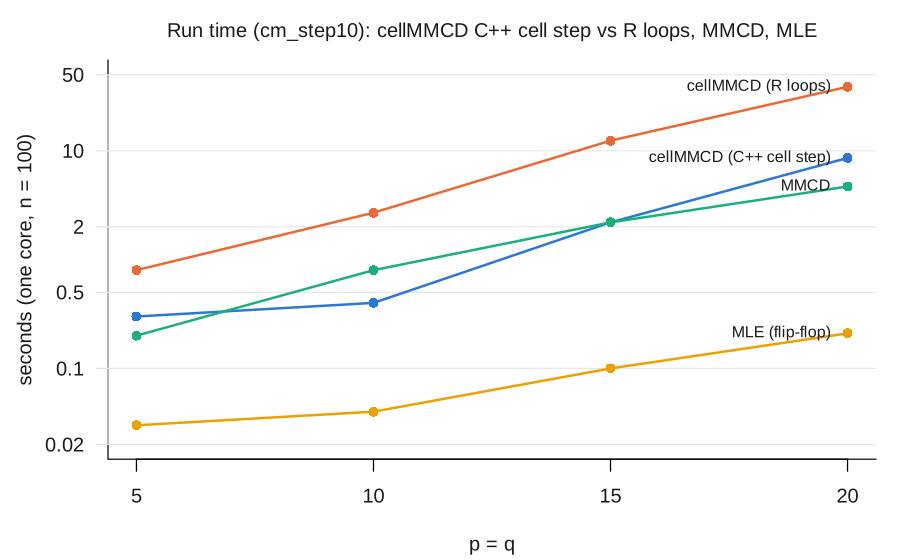
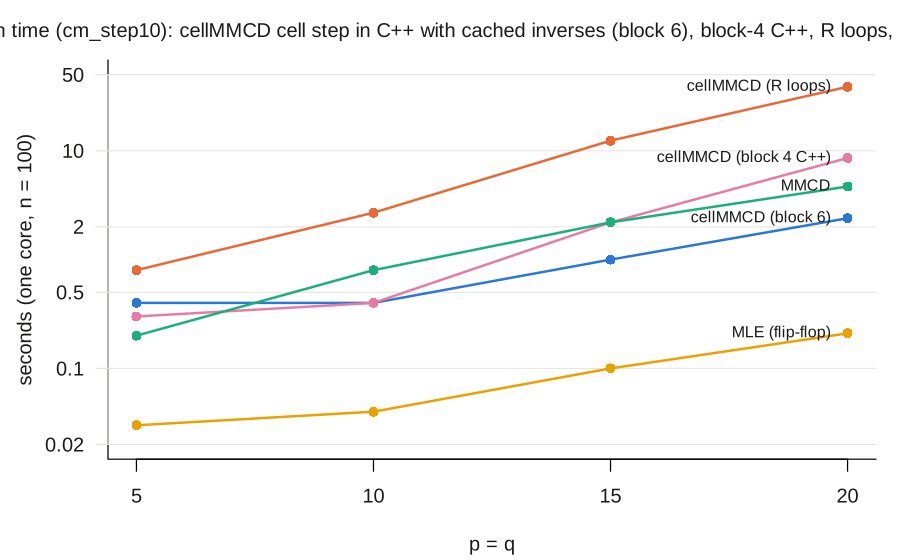
Block 6 end: cached-inverse cell step, timing figure, baton, progress summary, ledger
Claude-Session: https://claude.ai/code/session_01Fi3wVfbEYSFfctE82FNt4U

diff --git a/src/cm_wstep.cpp b/src/cm_wstep.cpp
@@ -27,7 +27,7 @@ static double delta_cell(const double* Tf, const arma::mat& Or, const arma::mat&
 }
 
 // [[Rcpp::export]]
-LogicalVector cm_wstep_cpp(NumericVector Tf, NumericMatrix Or_, NumericMatrix Oc_, LogicalVector W, LogicalVector Wfix,
+LogicalVector cm_wstep_cpp0(NumericVector Tf, NumericMatrix Or_, NumericMatrix Oc_, LogicalVector W, LogicalVector Wfix,
                            NumericMatrix lambda, int h, LogicalVector v, bool shadow) {
   int p = Or_.nrow(), q = Oc_.nrow(), pq = p * q, n = v.size();
   arma::mat Or(Or_.begin(), p, p, false), Oc(Oc_.begin(), q, q, false);
@@ -61,6 +61,96 @@ LogicalVector cm_wstep_cpp(NumericVector Tf, NumericMatrix Or_, NumericMatrix Oc
       if (!Wfix[c + i * pq]) continue;
       M.clear(); for (int j = 0; j < pq; ++j) if (!Wout[j + i * pq]) M.push_back(j);
       Wout[c + i * pq] = delta_cell(&Tf[i * pq], Or, Oc, M, c, p) - lambda(c % p, c / p) <= 0;
+    }
+  }
+  Wout.attr("dim") = W.attr("dim");
+  return Wout;
+}
+
+// ---- Cached-inverse version (block 6) -------------------------------------------------------------------
+// Per observation i keep M_i (flagged set), inv_i = Omega_{M_i M_i}^{-1} and u_i = inv_i t_{M_i}. The delta of a
+// candidate c not in M_i is then Schur: s2 = 1 / (Omega_cc - a' inv_i a), a = Omega_{M_i c}, g_c = s2 (t_c - a' u_i),
+// O(m^2) instead of O(m^3). Flagging c borders inv_i (O(m^2)); un-flagging c downdates it (O(m^2)). The inverse is
+// recomputed from scratch every REFRESH updates to keep the rounding error bounded.
+struct Cache {
+  std::vector<int> M; arma::mat inv; arma::vec u; int upd = 0;
+  void rebuild(const double* Tf, const arma::mat& Or, const arma::mat& Oc, int p) {
+    int m = M.size(); inv.set_size(m, m); u.set_size(m); upd = 0;
+    if (m == 0) return;
+    arma::mat A(m, m); arma::vec t(m);
+    for (int a = 0; a < m; ++a) { int ka = M[a] % p, la = M[a] / p; t(a) = Tf[M[a]];
+      for (int b = 0; b < m; ++b) A(a, b) = Or(ka, M[b] % p) * Oc(la, M[b] / p); }
+    inv = arma::inv_sympd(A); u = inv * t;
+  }
+  // delta for candidate c (not in M); fills a, w = inv a, s2 for a possible add
+  double delta(const double* Tf, const arma::mat& Or, const arma::mat& Oc, int c, int p, arma::vec& a, arma::vec& w, double& s2) const {
+    int m = M.size(), k = c % p, l = c / p; a.set_size(m);
+    for (int b = 0; b < m; ++b) a(b) = Or(k, M[b] % p) * Oc(l, M[b] / p);
+    double tc = Tf[c], au = 0.0, schur = Or(k, k) * Oc(l, l);
+    if (m) { w = inv * a; schur -= arma::dot(a, w); au = arma::dot(a, u); }
+    s2 = 1.0 / schur; double gc = s2 * (tc - au);
+    return std::log(2.0 * M_PI * s2) + gc * gc / s2;
+  }
+  void add(const double* Tf, const arma::mat& Or, const arma::mat& Oc, int c, int p, const arma::vec& w, double s2) {
+    int m = M.size(); M.push_back(c);
+    if (++upd > 64) { rebuild(Tf, Or, Oc, p); return; }
+    arma::mat ni(m + 1, m + 1);
+    if (m) { ni.submat(0, 0, m - 1, m - 1) = inv + s2 * w * w.t(); ni.submat(0, m, m - 1, m) = -s2 * w; ni.submat(m, 0, m, m - 1) = -s2 * w.t(); }
+    ni(m, m) = s2; inv = ni;
+    arma::vec t(m + 1); for (int b = 0; b <= m; ++b) t(b) = Tf[M[b]]; u = inv * t;
+  }
+  void remove(const double* Tf, const arma::mat& Or, const arma::mat& Oc, int c, int p) {
+    int m = M.size(), j = -1; for (int b = 0; b < m; ++b) if (M[b] == c) { j = b; break; }
+    if (j < 0) return;
+    M.erase(M.begin() + j);
+    if (++upd > 64 || m == 1) { rebuild(Tf, Or, Oc, p); return; }
+    arma::uvec keep(m - 1); for (int b = 0, r = 0; b < m; ++b) if (b != j) keep(r++) = b;
+    arma::vec col = inv.col(j); double d = inv(j, j);
+    arma::mat ni = inv.submat(keep, keep) - (col(keep) * col(keep).t()) / d; inv = ni;
+    arma::vec t(m - 1); for (int b = 0; b < m - 1; ++b) t(b) = Tf[M[b]]; u = inv * t;
+  }
+};
+
+// [[Rcpp::export]]
+LogicalVector cm_wstep_cpp(NumericVector Tf, NumericMatrix Or_, NumericMatrix Oc_, LogicalVector W, LogicalVector Wfix,
+                           NumericMatrix lambda, int h, LogicalVector v, bool shadow) {
+  int p = Or_.nrow(), q = Oc_.nrow(), pq = p * q, n = v.size();
+  arma::mat Or(Or_.begin(), p, p, false), Oc(Oc_.begin(), q, q, false);
+  LogicalVector Wout = clone(W);
+  std::vector<int> kept; for (int i = 0; i < n; ++i) if (v[i]) kept.push_back(i);
+  int nv = kept.size();
+  std::vector<Cache> cache(n);
+  for (int i = 0; i < n; ++i) { if (!v[i] && !shadow) continue;
+    for (int j = 0; j < pq; ++j) if (!Wout[j + i * pq]) cache[i].M.push_back(j);
+    cache[i].rebuild(&Tf[i * pq], Or, Oc, p); }
+  std::vector<double> dec; std::vector<int> free_; std::vector<arma::vec> ws; std::vector<double> s2s; arma::vec a, w; double s2;
+  for (int c = 0; c < pq; ++c) {
+    int k = c % p, l = c / p;
+    free_.clear();
+    for (size_t a_ = 0; a_ < kept.size(); ++a_) { int i = kept[a_];
+      if (Wfix[c + i * pq]) { if (!Wout[c + i * pq]) cache[i].remove(&Tf[i * pq], Or, Oc, c, p); Wout[c + i * pq] = true; free_.push_back(i); } }
+    int budget = nv - h - (nv - (int) free_.size());
+    if (budget <= 0) continue;
+    dec.assign(free_.size(), 0.0); ws.resize(free_.size()); s2s.assign(free_.size(), 0.0);
+    for (size_t a_ = 0; a_ < free_.size(); ++a_) { int i = free_[a_];
+      dec[a_] = cache[i].delta(&Tf[i * pq], Or, Oc, c, p, a, ws[a_], s2s[a_]) - lambda(k, l); }
+    std::vector<int> pos; for (size_t a_ = 0; a_ < free_.size(); ++a_) if (dec[a_] > 0) pos.push_back(a_);
+    if ((int) pos.size() > budget) {
+      std::stable_sort(pos.begin(), pos.end(), [&](int x, int y) { return dec[x] > dec[y]; });
+      pos.resize(budget);
+    }
+    for (size_t a_ = 0; a_ < pos.size(); ++a_) { int i = free_[pos[a_]]; Wout[c + i * pq] = false; cache[i].add(&Tf[i * pq], Or, Oc, c, p, ws[pos[a_]], s2s[pos[a_]]); }
+  }
+  if (shadow) for (int i = 0; i < n; ++i) {
+    if (v[i]) continue;
+    Cache& ch = cache[i];
+    for (int j = 0; j < pq; ++j) if (!Wfix[j + i * pq] && Wout[j + i * pq]) { Wout[j + i * pq] = false; ch.M.push_back(j); }
+    ch.rebuild(&Tf[i * pq], Or, Oc, p);
+    for (int c = 0; c < pq; ++c) {
+      if (!Wfix[c + i * pq]) continue;
+      if (!Wout[c + i * pq]) { ch.remove(&Tf[i * pq], Or, Oc, c, p); Wout[c + i * pq] = true; }
+      double d = ch.delta(&Tf[i * pq], Or, Oc, c, p, a, w, s2) - lambda(c % p, c / p);
+      if (d > 0) { Wout[c + i * pq] = false; ch.add(&Tf[i * pq], Or, Oc, c, p, w, s2); }
     }
   }
   Wout.attr("dim") = W.attr("dim");

diff --git a/notes/overnight/STATE.md b/notes/overnight/STATE.md
@@ -1,36 +1,39 @@
 # STATE: baton between overnight blocks
 
-_Last updated: 2026-11-04 by block 5 (session_01Fi3wVdJwhXJChghfnTDkxr). Each block rewrites this file at its end (PROTOCOL §6)._
+_Last updated: 2026-11-04 by block 6 (session_01Fi3wVfbEYSFfctE82FNt4U). Each block rewrites this file at its end (PROTOCOL §6)._
 
-## Current method: cellMMCD, reweighted, with shadow step, count rule (robust rate), joint location (status: implemented, tested 23/23 + core 31/31, all benchmarks rerun with the block-5 default)
-- **Definition** (`notes/cellmmcd/METHOD.md` §2, §4, §4b–4e): trimmed observed-cell likelihood with Kronecker Σ, penalty λ_kl per flagged cell (calibrated), per-position quota h = ⌈αn_v⌉, observation weights v_i with the kept-cell threshold μ_i, majority rule, adaptive count rule (≤ qbinom(.999, pq, ε̄) flagged cells; **block 5: ε̄ is the binomial-corrected mean count of the α_obs fraction of kept matrices with the fewest flags, `cm_eps_robust`**), shadow cell step (first 10 iterations), **block 5: EM step for the location M in the parameter step (`loc = TRUE`)**, then the reweighting step (re-flag at .999, refit with flags fixed, scale factors t_rw, t_obs).
-- **Block-5 changes and why:** (1) robust ε̄: kept casewise outliers inflated the plain rate (0.023 vs 0.013) and raised the count cap by one; structural 20 % now KL 0.28, 82 % trimmed (block 4: 0.32, 60 %); everything else unchanged. (2) Joint location: M error halved in every setting, the median plug-in breaks at 20 % shifted matrices (error 3.0 vs 0.3); KL never worse. (3) Hard quota (`quant_obs = NULL`) carries the MCD consistency factor κ(α_obs, pq): clean KL 0.42 → 0.29, scale ratio 0.87 → 1.01.
-- **New negative results (block 5, all in JOURNAL):** (a) *intrinsic limit*: structural casewise outliers under ≥ 5 % cellwise contamination are trimmed only ~10 % (KL 1.0–1.6; hard quota 0.35–0.42; MMCD 47): after their worst cells are flagged they are indistinguishable from cellwise-contaminated clean matrices by (count, kept cells); the kept-cell excess is −19 vs −29 for clean, far below any threshold. (b) *monotone shadow phase*: any constant trimmed charge ≡ charging flagged cells (block-2 dead end); closed. (c) *breakdown* (`cm_step13_breakdown.log`): cellwise at the per-position quota 25 % for 4-sd cells (KL 0.5 at 20 %, 5 at 25 %, 71 at 30 %), 35–40 % for 10-sd / 1000-sd cells (forced marginal flags), casewise at 25 % (quota); conjectured in general.
-- **Results with the block-5 default (median KL, n = 100):** cellwise 3×4 / 5×5 (`cm_step1.log`): clean 0.084 / 0.195, 5 / 10 / 20 % cells at 6 sd 0.089 / 0.195, 0.092 / 0.183, 0.130 / 0.271 (MMCD ≥ 14 with cells, cellMCD-on-vec 0.26–1.14). Casewise/mixed 5×5 (`cm_step4_mixed.log`): clean 0.19, 5 % cells 0.18, shift 10 / 20 % 0.16 / 0.17, scale 0.19 / 0.22, struct 0.20 / 0.23 (MMCD 0.18 / 0.23), shift + cells 0.22 (MMCD 51), **struct + cells 0.79 (hard quota 0.32, MMCD 48: the weak case)**. Interplay guard (`cm_step9`): 10 % cells at 3 / 4 / 6 sd 0.29 / 0.24 / 0.24, trimmed 0; clean 0.21 with 1 % trimmed (block 4: 0.18, 0; caveat in JOURNAL). Location (`cm_step14`): M error 0.27–0.32 (median plug-in 0.43–3.0).
-- **Figures (block 5, `exp/cm_plots_block5.R`):** `output/cm_fig_breakdown.png`, `cm_fig_timing.png`, `cm_fig_if.png`, `cm_fig_mixed.png` (base R; reads the rds files).
-- **Speed:** unchanged from block 4 (C++ cell step; 0.3 / 0.4 / 2.2 / 8.6 s at p = q = 5 / 10 / 15 / 20, n = 100); `cm_eps_robust` and the M step add negligible time. Operating range n ≥ 3·max(p, q).
+## Current method: cellMMCD, reweighted, shadow step, count rule (robust rate), joint location; fallback: reweighted hard quota (status: implemented, tested 25/25 + core 31/31, benchmarks rerun, paper-form summary in METHOD §0)
+- **Definition** (`notes/cellmmcd/METHOD.md` §0 summary, §2, §4, §4b–4e): trimmed observed-cell likelihood with Kronecker Σ, calibrated penalty λ_kl, per-position quota h = ⌈αn⌉, forced marginal flags (3 MAD), observation weights v (kept-cell threshold μ_i, majority rule, count rule with the robust rate), shadow cell step, EM location step, then the reweighting (re-flag at .999, refit with flags fixed, scale factors t_rw·t_obs). **Unchanged default in block 6.**
+- **Block-6 additions:** (1) `quant_rw_obs` (§4c): the hard quota (`quant_obs = NULL`) now re-decides the observation weights in the reweighting step by the kept-cell distance d_i² ≤ χ²_{|O_i|,.99} plus the raw count rule, no quota (`cm_d2_obs`, Schur form; test 24). Removes the raw hard quota's 12 % scale over-correction and its clean cost (0.275 → 0.200; soft 0.190); within 0.03 KL of the soft default on every casewise and cellwise case; **struct 20 % + 5 % cells 0.35 vs 0.79 (soft)**; recommended fallback. (2) C++ cell step with cached inverses (bordering / downdate of Ω_MM⁻¹, O(m²) per candidate; old routine kept as `cm_wstep_cpp0`, test 25): identical flags, 20×20 fit 8.6 → 2.4 s; faster than MMCD from 10×10.
+- **Theory added (block 6, JOURNAL results 4 and 6; METHOD §7, §7b):** chain-rule IF of the reweighted estimator in the Kronecker model, IF = J⁻¹[v s(z_O) + K·IF_raw(z)], bounded (the marginal cut bounds every kept value; the start has bounded IF), finite limit for gross cells and gross matrices (proven under regularity; K not in closed form). Breakdown: explosion by gross cells impossible below 1/2 contaminated cells per position (proven via the marginal cut; checked: no breakdown at 45 % gross cells per position, `cm_step19_gross.log`); the block-5 "35–40 % for gross cells" was an artefact of random placement; the quota 1 − α governs a *bounded bias* blow-up for moderate cells, not explosion.
+- **Checked numerically (block 6):** the full default is consistent at the Gaussian: n·KL 8.3 / 8.0 / 7.4 at n = 500 / 2000 / 8000 (MLE 8.9 / 7.4 / 5.9; `cm_step15_consistency.log`); raw hard quota unbiased but 2.1–2.8× the MLE, reweighted 0.98–1.41. Sensitivity curves (`cm_step18_sc.log`, `cm_fig_sc.png`, 3×3, n = 500): bounded, flat beyond the cutoff (one cell: 4.95 for x ≥ 3 vs MLE 824 at x = 30; shifted matrix: 5.5 for x ≥ 4 vs 3975), maximum just inside the cutoff.
+- **Closed:** C++ parameter step (5 % of the run time; profile in JOURNAL).
+- **Results with the default (median KL, n = 100), unchanged:** cellwise 3×4 / 5×5 clean 0.084 / 0.195, 5 / 10 / 20 % 6-sd cells 0.089 / 0.195, 0.092 / 0.183, 0.130 / 0.271; casewise 5×5 shift / scale / struct 20 % 0.17 / 0.22 / 0.23 (MMCD 0.21 / 0.27 / 0.23), shift + cells 0.22 (MMCD 51), struct + cells 0.79 (hard rw 0.35, MMCD 48).
+- **Figures:** block 5 `cm_fig_breakdown.png`, `cm_fig_if.png`, `cm_fig_mixed.png`; block 6 `cm_fig_timing.png` (regenerated), `cm_fig_sc.png` (`exp/cm_plots_block6.R`).
 
 ## Code and tests (all passing at commit of this file)
-- `R/cellmmcd.R`: 1 kpair, 2 objective, 3 cell step, 3a `cm_fullcol` (off), 3b `cm_vstep`, **3c `cm_eps_robust` (block 5)**, 4 `cm_pstep(..., loc)` (returns dM), 5 driver `cellmmcd(..., eps_robust = TRUE, loc = TRUE, ...)` (fit carries `eps_bar`, `count_max`, `t_obs`, `loc`), 5b reweighting, 6–7 proxy fixed point and IFs.
-- `src/cm_wstep.cpp` unchanged. `tests/test_cellmmcd.R`: 23 tests (block 4's 20 + robust rate, hard-quota factor, joint location). `tests/test_core.R`: 31/31.
-- Experiments added: `exp/cm_step12_struct.R` (diagnostic), `cm_step13_breakdown.R`, `cm_step14_loc.R`, `cm_plots_block5.R`. Reruns with the final default: `cm_step4_mixed` (new row struct 20 % + 5 % cells at the end of the grid), `cm_step9_interplay`, `cm_step1`, `cm_step13_breakdown`. Earlier runs kept as `*_block4.log`, `*_b5_locmedian.log` (block-5 code with the median plug-in), `cm_step4_mixed_block5_nokappa.log`.
-- `tools/overnight/hb.sh`: block number and session id hard-coded (set to 5: edit for block 6).
+- `R/cellmmcd.R`: driver `cellmmcd(..., quant_rw_obs = NULL)` (NULL = automatic: .99 for the hard quota, off otherwise); `cm_reweight(fit, X, quant_rw, maxit, tol, quant_rw_obs)` with the observation reweighting; `cm_d2_obs`. Fit carries `rw_obs`, `quant_rw_obs`, `t_obs`; `fit$raw$v` / `fit$raw$trimmed` keep the quota, `fit$v` is the reweighted set.
+- `src/cm_wstep.cpp`: `cm_wstep_cpp` (cached inverses, block 6), `cm_wstep_cpp0` (block 4, test only), `cm_reweight_cpp`.
+- `tests/test_cellmmcd.R`: 25 tests (tests 8 and 22 now check the quota on `fit$raw`; 24 reweighted hard quota; 25 cached cell step). `tests/test_core.R`: 31/31.
+- Experiments added: `exp/cm_step15_consistency.R`, `cm_step16_hardrw.R`, `cm_step17_hardrw_cells.R`, `cm_step18_sc.R`, `cm_step19_gross.R`, `cm_plots_block6.R`; `cm_step10_timing.R` rerun (adds the hard rw column; earlier logs `_block4.log`, `_block6_before_cache.log`).
+- `tools/overnight/hb.sh`: block number and session id hard-coded (set to 6: edit for block 7).
 
 ## Prioritized next steps (concrete first actions)
-1. **Consistency check of the final default at large n** (`cm_step6_bias.R` was run with the block-3 default): rerun n = 500 / 2000 / 8000 at 3×4 with `loc = TRUE` and the robust rate; n·KL must stay bounded (block 3: ratio to the MLE 1.0–1.5). First action: `grep -n 'n_grid\|cellmmcd(' exp/cm_step6_bias.R`, add the default, run in the background (minutes).
-2. **Reweighted hard quota** (cheap): after the hard-quota raw fit, re-decide v by the kept-cell test at the raw fit and refit (as the reweighted MCD), removing the 12 % over-correction at 20 % casewise contamination; keep as the fallback for structural outliers. Then METHOD §4c.
-3. **Influence function in the Kronecker model given the flags** (STATE-4 item 7): given (v, W) the reweighted estimator is an observed-cell MLE, so IF = J⁻¹ s(x) with the observed-cell score; combine with the cell rule's IF by the chain rule as in the proxy (§7a). Write the derivation in JOURNAL, check numerically with a contaminated functional at one cell (3×3, as `cm_proxy_T` does in 1-D).
-4. **Breakdown proof sketch** for the per-position quota (cellwise, 1 − α) along the MCD argument; needs the boundedness converse of §4a (still conjectured).
-5. **C++ for `cm_pstep`/`cm_obj_i`** if pq > 20 matters.
-6. METHOD.md to paper form (definition → algorithm → theory → simulation → limits), using the four figures; a timing rerun with the final default at 20×20.
+1. **Implosion / boundedness of F below the n/max(p,q) line (§4a converse)** is the main theoretical gap: the breakdown statement for moderate cells and the existence of the estimator both rest on it. First action: formulate the claim for the *local* minimiser from `kpair` on the feasible set with values in the marginal-cut box B (JOURNAL block 6, result 6): show that along a monotone descent from a start with bounded condition number, det Σ_OO terms keep the smallest eigenvalue away from 0 unless a kept configuration is degenerate; look at `cm_step11_smalln.log` for what the degenerate configurations look like. If a proof is out of reach, write the precise conjecture with the numerical evidence (n ≥ 3 max(p, q)).
+2. **Paper draft from METHOD §0**: `notes/cellmmcd/PAPER.md` with the sections definition → algorithm → theory → simulation → limits, pulling the tables from §9 and the five figures; reorder §4a–4e (currently 4a, 4c, 4d, 4b, 4e). Cheap, owner-facing.
+3. **Choice of default**: soft threshold vs reweighted hard quota. Evidence so far: equal within 0.03 KL everywhere except struct + cells (hard rw far better) and clean 5×5 (soft better by 0.01–0.03). A larger grid (3 seeds × n = 100, 200; 5×5, 8×8) with both would settle it; the decision belongs to the owner, so present both in the paper.
+4. **Casewise breakdown of the reweighted hard quota** at > 25 % casewise contamination (the reweighting could re-admit outliers as the reweighted MCD does): rerun `cm_step13_breakdown.R`'s casewise rows with `quant_obs = NULL`.
+5. **Speed, if pq > 20 matters:** `kpair` (9 %) and the R-level parameter step / objective are what remains; the cell step is no longer the bottleneck.
+6. Timing beyond 20×20 (30×30, 40×40) now that the cell step is O(m²): one background run of `cm_step10_timing.R` with the grid extended.
 
 ## Open questions and pitfalls
-- The count rule's ε̄ is estimated from kept matrices; with casewise contamination at exactly 1 − α_obs the binomial correction over-corrects by one count unit (test 21 documents it).
-- Structural casewise outliers + cellwise contamination: not identifiable in the cellwise paradigm (JOURNAL block 5); say so in the paper and point to the hard quota.
-- The location's forced marginal flags (Wfix) are computed once from the median-centred data; under > 20 % shifted matrices the median centre is off, but the EM location and the trimming recover (cm_step14 shiftmat error 0.32).
-- Inserting a row in the middle of an experiment grid changes the seeds of the later rows (seeds are 4000 + 100·g + r): append new rows at the end.
-- Each block's start-up reading costs ≈ $2–3 of the cap; keep reads to this file, the brief, METHOD §4e/§7–9, the block-5 JOURNAL entries.
-- `pgrep -f` inside a waiting loop matches the loop's own shell; wait on a done marker. Foreground `sleep` is blocked for the agent: wait with a background `until` loop.
+- The observation reweighting of the hard quota uses `fit$count_max` from the raw fit; when the raw count rule is off (`flag_quant = NULL`) only the majority rule applies.
+- The sensitivity curves are finite-sample (n = 500); the transmitted term K·IF_raw is invisible at that resolution, consistent with the proxy's 0.006 but not a measurement of K.
+- Breakdown by moderate cells (inside 3 MAD) at the quota is a *bias* blow-up (KL 5 / 71 at 25 / 30 %), bounded by construction; say "bias breakdown" in the paper, not "explosion".
+- Block-5 breakdown log (`cm_step13_breakdown.log`): the gross-cell rows used random placement; with position-wise placement there is no breakdown up to 45 %. Both facts are true; cite both.
+- Inserting a row in the middle of an experiment grid changes the seeds of later rows: append new rows at the end.
+- Each block's start-up reading costs ≈ $2; keep reads to this file, the brief, METHOD §0 and the block-6 JOURNAL entries.
+- `pgrep -f` inside a waiting loop matches the loop's own shell; wait on a done marker. Foreground `sleep` is blocked: wait with a background `until` loop.
 
 ## Files to read first
-`notes/overnight/RESEARCH_BRIEF.md`, this file, `notes/cellmmcd/METHOD.md` (§4c–4e, §7–9), the block-5 entries of `notes/cellmmcd/JOURNAL.md`, `R/cellmmcd.R` (sections 3b–5), `output/cm_step4_mixed.log`, `output/cm_step13_breakdown.log`, `output/cm_step14_loc.log`.
+`notes/overnight/RESEARCH_BRIEF.md`, this file, `notes/cellmmcd/METHOD.md` §0 (summary) and §7–8, the block-6 entries of `notes/cellmmcd/JOURNAL.md`, `R/cellmmcd.R` (sections 5–5b), `output/cm_step16_hardrw.log`, `output/cm_step15_consistency.log`.

diff --git a/notes/cellmmcd/METHOD.md b/notes/cellmmcd/METHOD.md
@@ -10,7 +10,7 @@ _Draft of 2026-11-04 (blocks 1–6; §0 is the paper-form summary). Derivations:
 $F(M,\Sigma,W,v) = \sum_i v_i\big[\log\det\Sigma_{O_iO_i} + x_{iO_i}'\Sigma_{O_iO_i}^{-1}x_{iO_i} + |O_i|\log2\pi\big] + \sum_{i,k,l} v_i\lambda_{kl}(1-w_{ikl}) + \sum_i (1-v_i)\mu_i$,
 over cell weights $W$ (quota $h = \lceil\alpha n\rceil$ kept cells per position, forced flags beyond 3 MAD), observation weights $v$ (kept-cell threshold $\mu_i$ at the start, majority rule, count rule) and $(M, \Sigma = \Sigma^c\otimes\Sigma^r)$. The penalty $\lambda_{kl}$ is calibrated so that a clean cell is flagged with probability 0.01 at the Gaussian without a scale bias (§4b). The final estimate is the *reweighted* fit: flags re-decided at the raw fit with cutoff $\chi^2_{1,.999}$, observed-cell MLE with the flags fixed, scale factors $t_{rw} t_{obs}$ (§4d). Two observation rules: the penalised threshold (default) and the hard quota $n - \lceil\alpha_{obs}n\rceil$ with observation reweighting (fallback, §4c).
 
-**Algorithm (§4, §5).** Block coordinate descent: (1) cell step, exact per position by the Schur identity $\det\Sigma_{OO} = \det\Sigma\cdot\det\Omega_{MM}$ (§3), in C++; (2) observation step, exact; (3) parameter step = one EM/flip-flop sweep on the kept cells, with the EM step for $M$. $F$ is monotone (proven) except during the first `shadow_it` iterations, where trimmed matrices keep having their cells re-decided (§4e); the raw fit converges. Cost per iteration $O\big(n(p^2q + pq^2 + \bar m^3 pq)\big)$ with $\bar m$ the number of flags per matrix; 0.4 / 0.5 / 2.5 / 8 s at $p = q = 5 / 10 / 15 / 20$, $n = 100$ (MMCD 0.2 / 0.8 / 2.2 / 4.7 s). Start: pairwise Kronecker estimate `kpair` (§6). Operating range $n \ge 3\max(p,q)$.
+**Algorithm (§4, §5).** Block coordinate descent: (1) cell step, exact per position by the Schur identity $\det\Sigma_{OO} = \det\Sigma\cdot\det\Omega_{MM}$ (§3), in C++; (2) observation step, exact; (3) parameter step = one EM/flip-flop sweep on the kept cells, with the EM step for $M$. $F$ is monotone (proven) except during the first `shadow_it` iterations, where trimmed matrices keep having their cells re-decided (§4e); the raw fit converges. Cost per iteration $O\big(n(p^2q + pq^2 + \bar m^2 pq)\big)$ with $\bar m$ the number of flags per matrix; 0.4 / 0.4 / 1.0 / 2.4 s at $p = q = 5 / 10 / 15 / 20$, $n = 100$ (MMCD 0.2 / 0.8 / 2.2 / 4.7 s). Start: pairwise Kronecker estimate `kpair` (§6). Operating range $n \ge 3\max(p,q)$.
 
 **Theory (§7).** Proven: the Schur form and the exactness of the cell criterion; monotonicity and convergence of the descent; $F$ unbounded below when $n - h \ge n/\max(p,q)$, so the estimator is the local minimiser from the robust start (§4a); the shape bias of the raw fit to first order and its removal by reweighting (1-D proxy, §4d); the EM step for $M$; the chain-rule form and boundedness of the influence function in the Kronecker model given the flags (§7b), and bounded IFs in closed form in the 1-D proxy (§7a); explosion breakdown by gross cells impossible below 1/2 contaminated cells per position (marginal cut). Checked numerically: consistency of the full default at the Gaussian ($n\cdot$KL 8.3 / 8.0 / 7.4 at $n$ = 500 / 2000 / 8000; MLE 8.9 / 7.4 / 5.9), the MCD consistency factor of the hard quota, sensitivity curves bounded and flat beyond the cutoff, bias breakdown at the quota $1-\alpha$ per position for moderate cells and $1-\alpha_{obs}$ for casewise outliers. Conjectured: boundedness of $F$ below the $n/\max(p,q)$ line; breakdown in general.
 
@@ -77,14 +77,16 @@ The observation step runs before the cell step, so at the first pass only the ma
 ## 5. Complexity
 Per outer iteration: cell step $O\big(n\,pq\,(m+1)^3 + n(p^2q+pq^2)\big)$, parameter step $O\big(n(p^2q + pq^2 + m^3)\big)$, with $m$ the number of flagged cells per matrix ($\approx \varepsilon pq$ under cellwise contamination). The dependence on $pq$ is linear up to the small $m$-solves, against $O(n(pq)^3)$ for cellMCD on $\operatorname{vec}X$. The cell step and the reweighting pass are in C++ since block 4 (`src/cm_wstep.cpp`, RcppArmadillo, identical results; `R/load.R` falls back to the R loops). Timing (`cm_step10_timing.log`, n = 100, 5 % cells at 6 sd, one core, default settings; the R-loop numbers in `cm_step10_timing_Rengine.log`):
 
-| p = q | cellMMCD (C++) | cellMMCD (R loops) | raw / rw iterations | MMCD | MLE | KL cellMMCD / MMCD / MLE |
-|---|---|---|---|---|---|---|
-| 5 | 0.3 s | 0.8 s | 8 / 5 | 0.2 s | 0.03 s | 0.11 / 36 / 63 |
-| 10 | 0.4 s | 2.7 s | 8 / 5 | 0.8 s | 0.04 s | 0.66 / 227 / 280 |
-| 15 | 2.2 s | 12.4 s | 14 / 5 | 2.2 s | 0.10 s | 1.60 / 614 / 697 |
-| 20 | 8.6 s | 38.8 s | 15 / 5 | 4.7 s | 0.21 s | 2.84 / 1149 / 1234 |
+| p = q | cellMMCD (C++, cached inverse, block 6) | C++ block 4 | R loops | raw / rw iterations | MMCD | MLE | KL cellMMCD / MMCD / MLE |
+|---|---|---|---|---|---|---|---|
+| 5 | 0.4 s | 0.3 s | 0.8 s | 11 / 5 | 0.2 s | 0.03 s | 0.10 / 36 / 63 |
+| 10 | 0.4 s | 0.4 s | 2.7 s | 11 / 5 | 0.8 s | 0.01 s | 0.61 / 227 / 280 |
+| 15 | 1.0 s | 2.2 s | 12.4 s | 17 / 5 | 2.2 s | 0.02 s | 1.55 / 614 / 697 |
+| 20 | 2.4 s | 8.6 s | 38.8 s | 14 / 5 | 4.7 s | 0.04 s | 2.89 / 1149 / 1234 |
 
-Recall 1.00 and false flags 0.4–0.5 % at every size. What remains at 20×20 is the R-level parameter step and objective (per-observation solves of $m\times m$ systems in R loops), the next candidates for C++ if larger $pq$ matters.
+Block 6: the cell step keeps $\Omega_{M_iM_i}^{-1}$ per observation and updates it by bordering (flag) and downdating (un-flag), so a candidate cell costs $O(m^2)$ instead of $O(m^3)$ (recomputed from scratch every 64 updates; identical flags, test 25): the cell step is 15× faster at 20×20 and the full fit 3.4× (`cm_step10_timing.log`; the block-4 log is `_block4.log`). Per outer iteration the cell step is now $O\big(n\,pq\,m^2 + n(p^2q+pq^2)\big)$.
+
+Recall 1.00 and false flags 0.4–0.5 % at every size. Profile at 20×20 before the cached inverse (block 6): cell step 74 %, `kpair` 9 %, reweighting 7 %, parameter step 5 %; after it the remaining R-level parts (`kpair`, parameter step, objective) are the next candidates if larger $pq$ matters.
 
 ## 6. Initial estimator `kpair` (no iteration, no imputation)
 $s_{kl} = \operatorname{MAD}_i(X_{ikl} - M_{kl})$; $\log s_{kl}^2 = a_k + b_l$ by median polish (exact at the model because $\operatorname{var}X_{kl} = \Sigma^r_{kk}\Sigma^c_{ll}$); $\rho^r_{kk'} = \operatorname{med}_l\,\mathrm{GK}(U_{\cdot kl}, U_{\cdot k'l})$ on standardized cells, since $\operatorname{corr}(X_{kl},X_{k'l}) = \rho^r_{kk'}$ for every $l$; same for $\rho^c$; eigenvalue clipping for positive definiteness. Fisher-consistent at the Gaussian (MAD and GK with the standard constants; shape errors 0.02–0.03 at $n = 3000$, tested). Cellwise robust by construction (each statistic uses one or two positions).

diff --git a/notes/overnight/PROGRESS_SUMMARY.md b/notes/overnight/PROGRESS_SUMMARY.md
@@ -15,3 +15,5 @@ Each block appends one short dated entry: results with numbers, decisions, dead 
 **Block 4 (2026-11-04, 13:57–14:45 UTC, ≈ $9).** (1) The block-3 pitfall (25 % of matrices trimmed under 10 % cells at 3–4 sd) was a lock-in: trimmed matrices never had their cells re-decided. Fix: a **shadow cell step** for trimmed matrices during the first 10 iterations (trimmed 0 %, clean 5×5 KL 0.198 → 0.182, clean matrices trimmed 4 % → 0 %). It exposed a second problem: scaled / structural casewise outliers were re-admitted after their worst cells were flagged (selection; KL up to 0.41). Fix: an **adaptive count rule** (at most qbinom(.999, pq, ε̄) flagged cells per kept matrix): scale ×3 matrices trimmed 100 % again (KL 0.19 / 0.22 at 10 / 20 %), structural 0.18 / 0.32 (MMCD 0.18 / 0.23: the remaining weak case), mixed 0.22 (MMCD 51). Cellwise benchmark rerun: 5×5 clean 0.198, 5 / 10 / 20 % cells 0.18 / 0.21 / 0.32 (cellMCD-on-vec 0.63 / 0.59 / 1.14). (2) **Influence functions** of the raw and reweighted estimator derived in the 1-D proxy and checked to 1e-4 against exact contaminated functionals: bounded, gross-error sensitivity 7.4 / 10.0, ≈ 0 beyond the cutoff (MLE: unbounded). (3) **C++ cell step** (RcppArmadillo, identical results): 20×20, n = 100 in 8.6 s instead of 38.8 s (MMCD 4.7 s); 10×10 in 0.4 s. (4) Operating range n ≥ 3·max(p, q): degenerate descents only at n = 8–10 for 4×4. Tests 20/20 + 31/31. Dead ends: no observation trimming (KL 1.96 at 20 % shifted matrices), quant_obs .999 (under-trims), shadow step without the count rule.
 
 **Block 5 (2026-11-04, 14:24–14:50 UTC, ≈ $10).** (1) Structural casewise outliers (block 4's weak case): diagnosed as a count-rule problem (kept casewise matrices inflate the flag rate; after flagging, their kept-cell deviance is far below any threshold). Fix: a **robust, binomial-corrected flag rate** (default): struct 20 % KL 0.32 → 0.28 (82 % trimmed). (2) **Joint location** by the EM step on the kept cells (default): squared error of M halved everywhere, the median plug-in breaks at 20 % shifted matrices (3.0 vs 0.3); KL never worse; with it struct 20 % reaches 0.23 = MMCD. (3) **Intrinsic limit found:** structural outliers plus 5 % cellwise contamination are trimmed only ~10 % (KL 0.8; hard quota 0.32; MMCD 48): such matrices are indistinguishable from cellwise-contaminated clean ones by count and kept cells. The hard quota, now with the MCD consistency factor (clean KL 0.42 → 0.28, scale ratio 0.87 → 1.01), is the fallback. (4) **Breakdown (numerical):** cellwise at the per-position quota 25 % for 4-sd cells, 35–40 % for gross cells (forced marginal flags), casewise at 25 %; conjectured in general. (5) A monotone formulation of the shadow phase is impossible without charging flagged cells (closed negatively). (6) Four figures (breakdown, timing, influence functions, mixed benchmark). Cellwise headline table unchanged within 0.01. Tests 23/23 + 31/31. Caveats: clean interplay case 0.21 vs 0.18 with 1 % trimmed; one breakdown rep at 40 % gross cells (both outside the operating range of interest).
+
+**Block 6 (2026-11-04, 14:41–14:58 UTC, ≈ $9).** (1) **Consistency confirmed** for the full block-5 default at the Gaussian: n·KL 8.3 / 8.0 / 7.4 at n = 500 / 2000 / 8000 (MLE 8.9 / 7.4 / 5.9); none of the block-4/5 additions re-introduced the raw fit's shape bias. (2) **Reweighted hard quota** (observation weights re-decided at the raw fit by the kept-cell χ² test, as in the reweighted MCD): removes the raw quota's 12 % scale over-correction and its clean cost (KL 0.275 → 0.200; soft default 0.190), within 0.03 KL of the default on all casewise and cellwise cases, and **0.35 instead of 0.79 on the weak case** (structural matrices + 5 % cells; MMCD 48). Kept as the recommended fallback; the soft threshold stays the default. (3) **Influence function in the Kronecker model** given the flags: chain-rule form J⁻¹[v·s(z_O) + K·IF_raw], bounded by the marginal cut, finite limit for gross cells and matrices (proven under regularity); sensitivity curves (3×3, n = 500) bounded and flat beyond the cutoff (one cell: 4.95 vs the MLE's 824 at x = 30; shifted matrix: 5.5 vs 3975), figure `cm_fig_sc.png`. (4) **Breakdown**: proven that gross cells cannot cause explosion below 50 % per position (the marginal cut bounds every value the algorithm sees); checked: no breakdown at 45 % gross cells per position (block 5's 35–40 % was a random-placement artefact); the quota 1 − α governs a bounded bias blow-up for moderate cells. (5) **Speed**: cached inverses in the C++ cell step (identical flags): 20×20 fit 8.6 → 2.4 s, now faster than MMCD from 10×10 on; a C++ parameter step closed (5 % of run time). (6) METHOD §0: one-page paper-form summary. Tests 25/25 + 31/31. No dead ends this block; open: implosion/boundedness of F (§4a converse), paper draft, default choice (soft vs reweighted hard quota).

diff --git a/notes/cellmmcd/JOURNAL.md b/notes/cellmmcd/JOURNAL.md
@@ -223,3 +223,6 @@ with I_O the Fisher information of the observed-cell marginal (J is the kept-cel
 
 ### Closed: C++ for the parameter step (STATE-5 item 5)
 Profile at 20×20, n = 100 (`Rprof`, scratch): the C++ cell step takes 74 % of the 8 s, `kpair` 9 %, the reweighting 7 %, `cm_pstep` 5 %. A C++ parameter step would gain at most 5 %; closed. The next speed-up, if needed, is inside the cell step: rank-one updates of Ω_MM⁻¹ when a cell is toggled (currently each candidate cell solves an m×m system from scratch), O(m²) instead of O(m³) per candidate.
+
+### Result 7: cached inverses in the C++ cell step (`src/cm_wstep.cpp`, test 25; `output/cm_step10_timing.log`)
+Each observation keeps M_i, Ω_{M_iM_i}⁻¹ and u_i = Ω_{M_iM_i}⁻¹ t_{M_i}; the delta of a candidate c is the bordered Schur complement s2 = 1/(Ω_cc − a'Ω_MM⁻¹a), g_c = s2(t_c − a'u_i) in O(m²); flagging borders the inverse, un-flagging (the per-position reset) downdates it, both O(m²); a rebuild from scratch every 64 updates bounds the rounding error. The shadow pass uses the same cache. Flags identical to the block-4 routine (kept as `cm_wstep_cpp0`) on 5×5, 10×10, 20×20 instances and in test 25; the full fits give the same KL to three digits. Time at n = 100 (one core): cell step 0.10 s vs 1.48 s at 20×20; full fit 0.4 / 0.4 / 1.0 / 2.4 s at p = q = 5 / 10 / 15 / 20 (block 4: 0.3 / 0.4 / 2.2 / 8.6; MMCD 0.2 / 0.8 / 2.2 / 4.7): **cellMMCD is now faster than MMCD from 10×10 on.** Figure `cm_fig_timing.png` regenerated (`exp/cm_plots_block6.R`).
